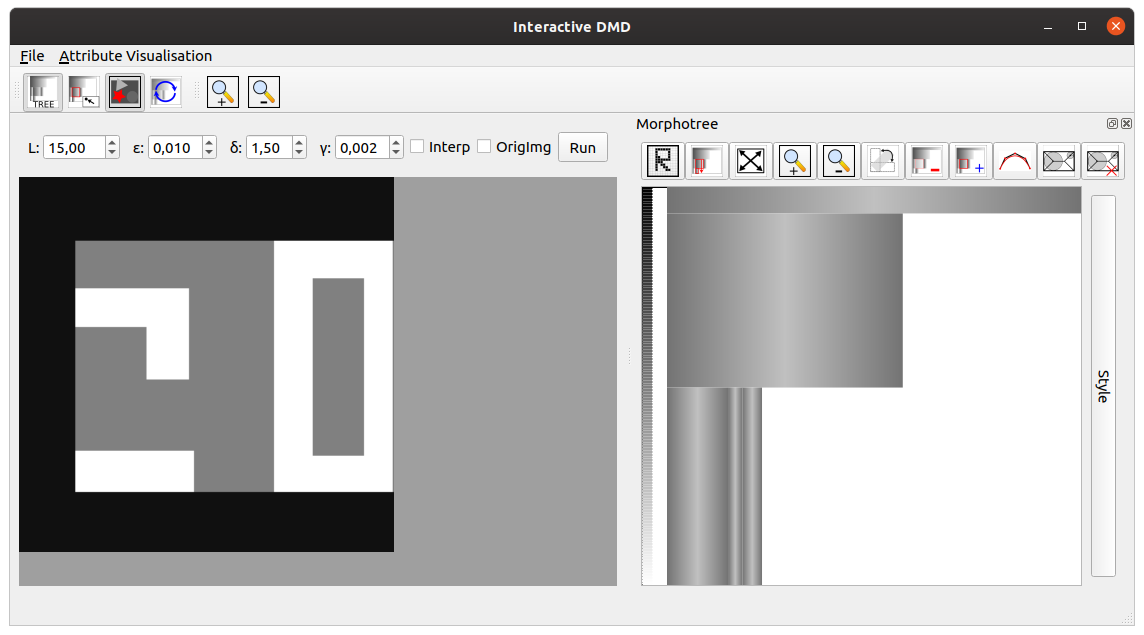
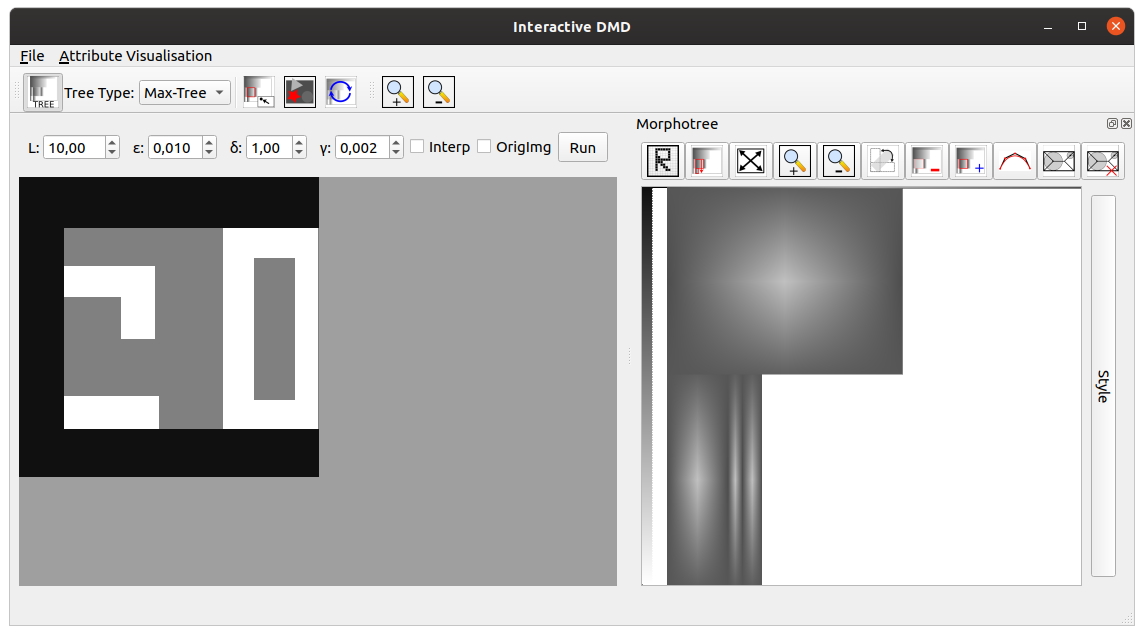
Adding the min-tree and max-tree selection at the readme.

diff --git a/README.md b/README.md
@@ -88,13 +88,19 @@ make
 
 ### Morphotree widget and node selection
 
-The morphotree widget is an alternative representation of the image. In this widget, we render a max-tree (one of the types of common morphological trees). In this tree, each node represents a connected component of an upper-threshold. The child nodes are connected components that are subsets of their parent node. An simple example is shown down below:
+The morphotree widget is an alternative representation of the image. In this widget, we render a morphhological tree (either a max-tree or a min-tree). In this tree, each node represents a connected component of an upper-threshold or lower-thresdhold. The child nodes are connected components that are subsets of their parent node. An simple example is shown down below:
 
 ![](images/simple-tree-example.png)
 
 In this figure, we can see tree nodes representing the connected components in white that span from gray to white at the graphical representation of tree. These nodes are children of a bigger node that spans from black to gray. This node contains the previously small tree nodes. Finally the root node in black that contains the bigger node.
 
 ### Usage:
+
+### Show morphological tree
+
+To show the morphological tree of the current image one can click on <img src="images/morphotree_icon.png" title="" alt="" width="50">  button. The image shows depends on the selected  tree type. We can chose between min-tree (to edit dark objects on bright background) or max-tree (to edit bright objects on dark background) by change the value of the tree type combo box as shown in the figure below:
+
+![](images/min-tree.png)
 
 #### Node selection and unselection
 
